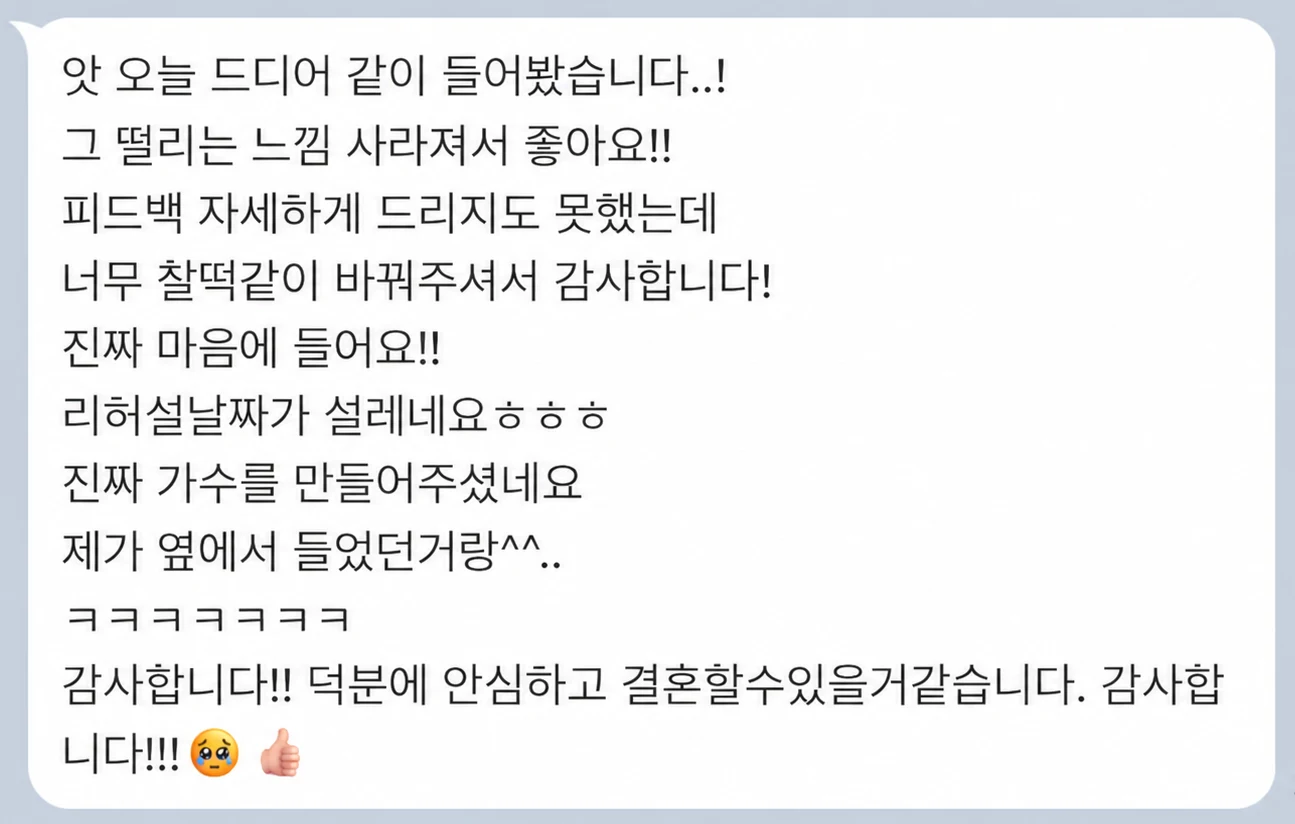
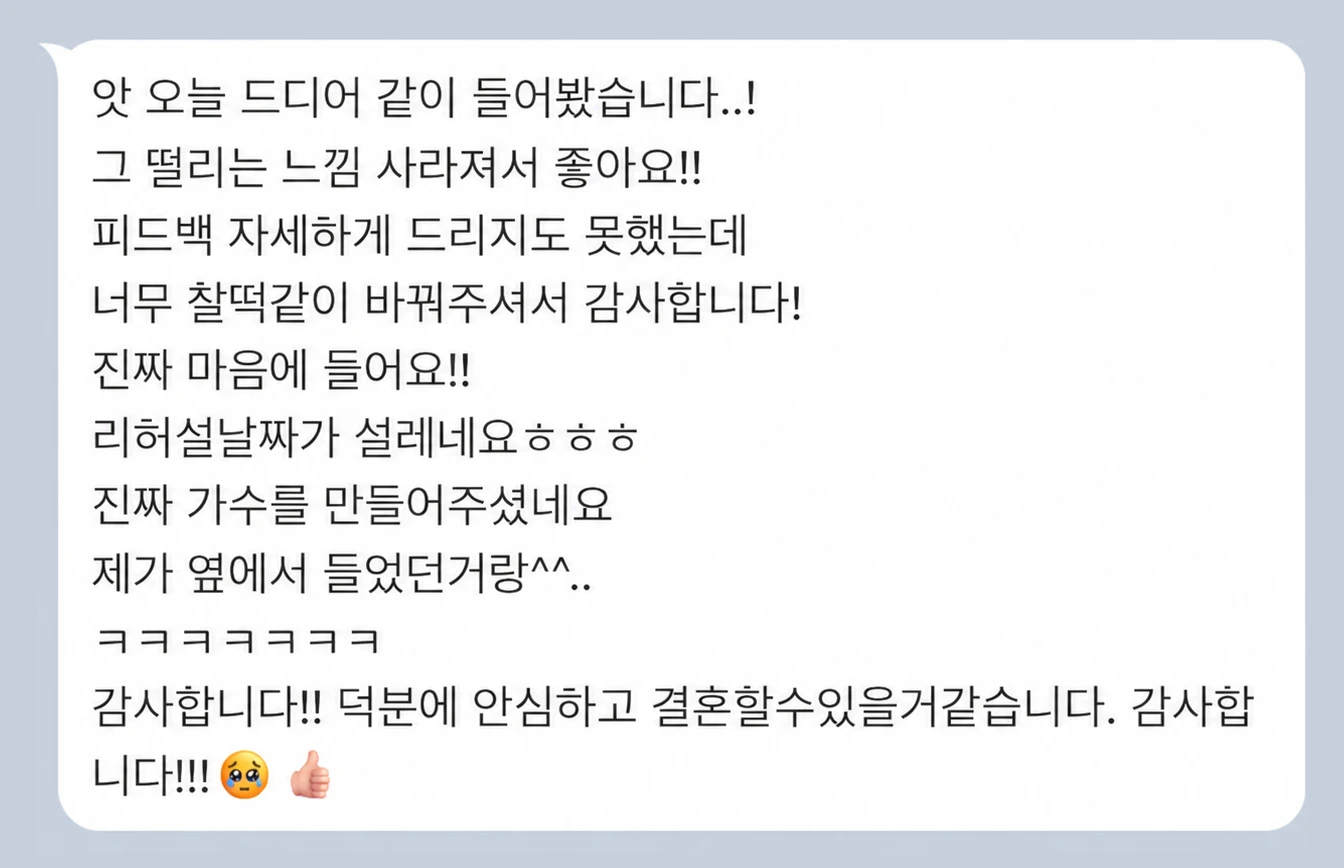
Round 25: booking occupancy (length + 30 extra + 30 prep, no pre-buffer), only 수입 항목 rows block, review-17 original re-crop, side review cards show full titles, 본식 현장 영상 rename, /events AR 축가 상담하기 opens the chooser

Changed region(s): [[0.0, 0.0, 0.9884, 1.0]]

diff --git a/js/app.js b/js/app.js
@@ -260,7 +260,7 @@ const PRODUCTS = {
 
 const EVENTS = [
   { key: "blog", type: "payback", label: "네이버 블로그 리뷰", discount: 30000, detail: "일 방문자 100명 이상인 네이버 블로그 · 위스티아에서 전달드리는 블로그 안내 가이드에 따라 후기 작성 및 공개 게시 · 카카오톡으로 게시물 링크 전달" },
-  { key: "reaction", type: "payback", label: "본식 현장 리액션 영상", discount: 30000, detail: "얼굴 공개·공식 인스타 게시 동의 · 본식 현장 영상 파일을 카카오톡으로 전달 · 조건 확인 후 30,000원 환급" },
+  { key: "reaction", type: "payback", label: "본식 현장 영상", discount: 30000, detail: "얼굴 공개·공식 인스타 게시 동의 · 본식 현장 영상 파일을 카카오톡으로 전달 · 조건 확인 후 30,000원 환급" },
 ]
 
 // Approved full event copy, shared with the existing events-page card layout
@@ -923,7 +923,7 @@ function renderEventsPage(){
  const legend=items.map(item=>'<span>'+escapeHtml(item.label.replace(/ (리뷰|후기|영상)$/,''))+' '+won(item.discount)+'</span>').join('')
  const cards=items.map((item,i)=>'<article class="ev2-card"><div class="ev2-no">'+String(i+1).padStart(2,'0')+'</div><div class="ev2-body"><div class="ev2-top"><h3 data-svg-title="off">'+escapeHtml(item.label)+'</h3><span class="ev2-amt">페이백 '+won(item.discount)+'</span></div>'+PAYBACK_EVENT_GUIDE[item.key].map(([title,lines])=>(title?'<p class="ev2-lbl">'+escapeHtml(title)+'</p>':'')+'<div class="ev2-cond">'+lines.map(line=>'<span>'+escapeHtml(line)+'</span>').join('')+'</div>').join('')+'</div></article>').join('')
  const discounts='<section class="events-discounts" aria-labelledby="discountsTitle"><p class="ev2-k">DISCOUNTS</p><h2 id="discountsTitle">할인 이벤트</h2>'+'<div class="events-discount-list">'+[['위스티아 첫 이용','10,000원 할인','처음 이용하신다면 문의 양식에서 첫 이용을 선택해 주세요','gift'],['목·금 오후 1~4시 시작','10,000원 할인','공휴일 제외 · 해당 요일과 시작 시간을 선택하면 자동 반영돼요','clock'],['녹음일 1개월 이후','10,000원 할인','예약하는 날에서 한 달 이후의 녹음 일정','calendar'],['녹음일 2개월 이후','20,000원 할인','사전 예약 할인은 두 항목 중 한 가지만 적용돼요','calendar']].map(([title,amount,note,icon],i)=>'<article class="evd-card"><span class="evd-icon" aria-hidden="true"><svg viewBox="0 0 24 24" fill="none" stroke="currentColor" stroke-width="1.6" stroke-linecap="round" stroke-linejoin="round" focusable="false">'+{gift:'<path d="M4 11h16v9H4zM3 7h18v4H3zM12 7v13M12 7c-1.5-3-5-3.5-5-1.2C7 7 9.5 7 12 7zm0 0c1.5-3 5-3.5 5-1.2C17 7 14.5 7 12 7z"/>',clock:'<circle cx="12" cy="12" r="8.5"/><path d="M12 7.5V12l3 2"/>',calendar:'<rect x="3.5" y="5" width="17" height="15" rx="2"/><path d="M3.5 9.5h17M8 3v4M16 3v4"/>'}[icon]+'</svg></span><p class="evd-no">'+['첫 번째','두 번째','세 번째','네 번째'][i]+'</p><h3 data-svg-title="off">'+title+'</h3><strong>'+amount+'</strong><p>'+note+'</p></article>').join('')+'</div></section>'
- app.innerHTML='<section class="wistia-events ev2" aria-labelledby="wistiaEventsTitle"><header class="ev2-hero"><p class="ev2-k">WISTIA EVENTS</p><h1 data-svg-title="off" id="wistiaEventsTitle">위스티아 이벤트</h1><p class="ev2-lead">할인 혜택과 후기 페이백을 안내해 드려요</p></header><div class="ev2-wrap">'+discounts+'<section class="events-payback" aria-labelledby="paybackTitle"><p class="ev2-k">PAYBACK</p><h2 id="paybackTitle">후기 참여 페이백 이벤트</h2><p class="ev2-lead">위스티아와 함께한 경험을 다른 분들께도 소개해 주실 수 있을까요?<br>고객님께서 나눠주시는 후기와 영상은 위스티아에 정말 큰 힘이 됩니다<br>감사의 마음을 담아 참여해 주시는 분들께 페이백을 준비했습니다</p><div class="ev2-big"><small>두 가지 모두 참여 시</small><h2 data-svg-title="off">총 <em>'+won(maximum)+'</em> 페이백!</h2><div class="ev2-bar">'+bar+'</div><div class="ev2-legend">'+legend+'</div><p>참여 조건 확인 후 카카오톡으로 환급 절차를 안내해 드립니다<br>결제 금액에서 미리 차감하지 않습니다</p></div><div class="ev2-list">'+cards+'</div><div class="ev2-note">'+PAYBACK_EVENT_GUIDE.notes.map(line=>'<p>'+escapeHtml(line)+'</p>').join('')+'</div></section><a class="ev2-cta" href="'+KAKAO_FALLBACK+'" target="_blank" rel="noopener noreferrer">카카오톡으로 상담하기</a></div></section>'+footer()
+ app.innerHTML='<section class="wistia-events ev2" aria-labelledby="wistiaEventsTitle"><header class="ev2-hero"><p class="ev2-k">WISTIA EVENTS</p><h1 data-svg-title="off" id="wistiaEventsTitle">위스티아 이벤트</h1><p class="ev2-lead">할인 혜택과 후기 페이백을 안내해 드려요</p></header><div class="ev2-wrap">'+discounts+'<section class="events-payback" aria-labelledby="paybackTitle"><p class="ev2-k">PAYBACK</p><h2 id="paybackTitle">후기 참여 페이백 이벤트</h2><p class="ev2-lead">위스티아와 함께한 경험을 다른 분들께도 소개해 주실 수 있을까요?<br>고객님께서 나눠주시는 후기와 영상은 위스티아에 정말 큰 힘이 됩니다<br>감사의 마음을 담아 참여해 주시는 분들께 페이백을 준비했습니다</p><div class="ev2-big"><small>두 가지 모두 참여 시</small><h2 data-svg-title="off">총 <em>'+won(maximum)+'</em> 페이백!</h2><div class="ev2-bar">'+bar+'</div><div class="ev2-legend">'+legend+'</div><p>참여 조건 확인 후 카카오톡으로 환급 절차를 안내해 드립니다<br>결제 금액에서 미리 차감하지 않습니다</p></div><div class="ev2-list">'+cards+'</div><div class="ev2-note">'+PAYBACK_EVENT_GUIDE.notes.map(line=>'<p>'+escapeHtml(line)+'</p>').join('')+'</div></section><a class="ev2-cta ev2-consult ed-hero-consult" href="/event/solo">AR 축가 상담하기<svg viewBox="0 0 24 24" fill="none" stroke="currentColor" stroke-width="1.5" aria-hidden="true"><path d="M5 19 19 5M5 5h14v14"/></svg></a></div></section>'+footer()
 }
 let contactQuote=null
 let inquiryUndecided=false,inquiryObserver=null

diff --git a/contact.html b/contact.html
@@ -182,7 +182,7 @@
   <link rel="preconnect" href="https://cdn.jsdelivr.net" crossorigin>
   <link rel="preload" as="style" crossorigin href="https://cdn.jsdelivr.net/gh/orioncactus/pretendard@v1.3.9/dist/web/variable/pretendardvariable-dynamic-subset.min.css" onload="this.onload=null;this.rel='stylesheet'"><noscript><link rel="stylesheet" crossorigin href="https://cdn.jsdelivr.net/gh/orioncactus/pretendard@v1.3.9/dist/web/variable/pretendardvariable-dynamic-subset.min.css"></noscript>
   <link rel="stylesheet" href="css/bundle-3472a5da.css?v=20261024-site-fixes-1">
-  <link rel="stylesheet" href="css/canvas-780.css?v=20261024-r24-1">
+  <link rel="stylesheet" href="css/canvas-780.css?v=20261024-r25-1">
   <script src="js/hero-editor.js?v=20261014-detail-polish-16j12" defer></script>
   <script src="js/process-editor.js?v=20261014-detail-polish-16j12" defer></script>
   <script src="js/ratio-model.js?v=20261014-detail-polish-16j12" defer></script>
@@ -193,18 +193,18 @@
   <script src="js/meta-pixel.js?v=20261017-funnel2" defer></script>
   <script src="js/analytics.js?v=20261017-funnel2" defer></script>
   <script src="js/seo-meta.js?v=20261024-r19-1" defer></script>
-  <script src="js/booking-availability.js?v=20261024-r17-1" defer></script>
+  <script src="js/booking-availability.js?v=20261024-r25-1" defer></script>
   <script src="js/contact-form.js?v=20261024-site-fixes-1" defer></script>
   <script src="js/site-motion.js?v=20261014-detail-polish-16j12" defer></script>
   <script src="js/svg-interface.js?v=20261014-detail-polish-16j12" defer></script>
   <script src="js/booking-draft.js?v=20261024-site-fixes-1" defer></script>
   <script src="js/inquiry-funnel.js?v=20261017-funnel2" defer></script>
-  <script src="js/package-pricing.js?v=20261024-r24-1" defer></script>
-  <script src="js/booking-wizard.js?v=20261024-r24-1" defer></script>
+  <script src="js/package-pricing.js?v=20261024-r25-1" defer></script>
+  <script src="js/booking-wizard.js?v=20261024-r25-1" defer></script>
   <script src="js/detail-pc-background.js?v=20261024-site-fixes-1" defer></script>
-  <script src="js/review-sources.js?v=20261024-r24-1" defer></script>
-  <script src="js/detail-editorial.js?v=20261024-r24-1" defer></script>
-  <script src="js/app.js?v=20261024-r24-1" defer></script>
+  <script src="js/review-sources.js?v=20261024-r24b" defer></script>
+  <script src="js/detail-editorial.js?v=20261024-r25-1" defer></script>
+  <script src="js/app.js?v=20261024-r25-1" defer></script>
   <meta property="og:image" content="https://wistiastudio.com/assets/img/og/wistia-og.png">
   <meta property="og:image:width" content="1200">
   <meta property="og:image:height" content="630">

diff --git a/detail/solo.html b/detail/solo.html
@@ -181,7 +181,7 @@
   <link rel="preconnect" href="https://cdn.jsdelivr.net" crossorigin>
   <link rel="preload" as="style" crossorigin href="https://cdn.jsdelivr.net/gh/orioncactus/pretendard@v1.3.9/dist/web/variable/pretendardvariable-dynamic-subset.min.css" onload="this.onload=null;this.rel='stylesheet'"><noscript><link rel="stylesheet" crossorigin href="https://cdn.jsdelivr.net/gh/orioncactus/pretendard@v1.3.9/dist/web/variable/pretendardvariable-dynamic-subset.min.css"></noscript>
   <link rel="stylesheet" href="css/bundle-3472a5da.css?v=20261024-site-fixes-1">
-  <link rel="stylesheet" href="css/canvas-780.css?v=20261024-r24-1">
+  <link rel="stylesheet" href="css/canvas-780.css?v=20261024-r25-1">
   <script src="js/hero-editor.js?v=20261014-detail-polish-16j12" defer></script>
   <script src="js/process-editor.js?v=20261014-detail-polish-16j12" defer></script>
   <script src="js/ratio-model.js?v=20261014-detail-polish-16j12" defer></script>
@@ -192,18 +192,18 @@
   <script src="js/meta-pixel.js?v=20261017-funnel2" defer></script>
   <script src="js/analytics.js?v=20261017-funnel2" defer></script>
   <script src="js/seo-meta.js?v=20261024-r19-1" defer></script>
-  <script src="js/booking-availability.js?v=20261024-r17-1" defer></script>
+  <script src="js/booking-availability.js?v=20261024-r25-1" defer></script>
   <script src="js/contact-form.js?v=20261024-site-fixes-1" defer></script>
   <script src="js/site-motion.js?v=20261014-detail-polish-16j12" defer></script>
   <script src="js/svg-interface.js?v=20261014-detail-polish-16j12" defer></script>
   <script src="js/booking-draft.js?v=20261024-site-fixes-1" defer></script>
   <script src="js/inquiry-funnel.js?v=20261017-funnel2" defer></script>
-  <script src="js/package-pricing.js?v=20261024-r24-1" defer></script>
-  <script src="js/booking-wizard.js?v=20261024-r24-1" defer></script>
+  <script src="js/package-pricing.js?v=20261024-r25-1" defer></script>
+  <script src="js/booking-wizard.js?v=20261024-r25-1" defer></script>
   <script src="js/detail-pc-background.js?v=20261024-site-fixes-1" defer></script>
-  <script src="js/review-sources.js?v=20261024-r24-1" defer></script>
-  <script src="js/detail-editorial.js?v=20261024-r24-1" defer></script>
-  <script src="js/app.js?v=20261024-r24-1" defer></script>
+  <script src="js/review-sources.js?v=20261024-r24b" defer></script>
+  <script src="js/detail-editorial.js?v=20261024-r25-1" defer></script>
+  <script src="js/app.js?v=20261024-r25-1" defer></script>
   <meta property="og:image" content="https://wistiastudio.com/assets/img/og/wistia-og.png">
   <meta property="og:image:width" content="1200">
   <meta property="og:image:height" content="630">

diff --git a/event/duo.html b/event/duo.html
@@ -181,7 +181,7 @@
   <link rel="preconnect" href="https://cdn.jsdelivr.net" crossorigin>
   <link rel="preload" as="style" crossorigin href="https://cdn.jsdelivr.net/gh/orioncactus/pretendard@v1.3.9/dist/web/variable/pretendardvariable-dynamic-subset.min.css" onload="this.onload=null;this.rel='stylesheet'"><noscript><link rel="stylesheet" crossorigin href="https://cdn.jsdelivr.net/gh/orioncactus/pretendard@v1.3.9/dist/web/variable/pretendardvariable-dynamic-subset.min.css"></noscript>
   <link rel="stylesheet" href="css/bundle-3472a5da.css?v=20261024-site-fixes-1">
-  <link rel="stylesheet" href="css/canvas-780.css?v=20261024-r24-1">
+  <link rel="stylesheet" href="css/canvas-780.css?v=20261024-r25-1">
   <script src="js/hero-editor.js?v=20261014-detail-polish-16j12" defer></script>
   <script src="js/process-editor.js?v=20261014-detail-polish-16j12" defer></script>
   <script src="js/ratio-model.js?v=20261014-detail-polish-16j12" defer></script>
@@ -192,18 +192,18 @@
   <script src="js/meta-pixel.js?v=20261017-funnel2" defer></script>
   <script src="js/analytics.js?v=20261017-funnel2" defer></script>
   <script src="js/seo-meta.js?v=20261024-r19-1" defer></script>
-  <script src="js/booking-availability.js?v=20261024-r17-1" defer></script>
+  <script src="js/booking-availability.js?v=20261024-r25-1" defer></script>
   <script src="js/contact-form.js?v=20261024-site-fixes-1" defer></script>
   <script src="js/site-motion.js?v=20261014-detail-polish-16j12" defer></script>
   <script src="js/svg-interface.js?v=20261014-detail-polish-16j12" defer></script>
   <script src="js/booking-draft.js?v=20261024-site-fixes-1" defer></script>
   <script src="js/inquiry-funnel.js?v=20261017-funnel2" defer></script>
-  <script src="js/package-pricing.js?v=20261024-r24-1" defer></script>
-  <script src="js/booking-wizard.js?v=20261024-r24-1" defer></script>
+  <script src="js/package-pricing.js?v=20261024-r25-1" defer></script>
+  <script src="js/booking-wizard.js?v=20261024-r25-1" defer></script>
   <script src="js/detail-pc-background.js?v=20261024-site-fixes-1" defer></script>
-  <script src="js/review-sources.js?v=20261024-r24-1" defer></script>
-  <script src="js/detail-editorial.js?v=20261024-r24-1" defer></script>
-  <script src="js/app.js?v=20261024-r24-1" defer></script>
+  <script src="js/review-sources.js?v=20261024-r24b" defer></script>
+  <script src="js/detail-editorial.js?v=20261024-r25-1" defer></script>
+  <script src="js/app.js?v=20261024-r25-1" defer></script>
   <meta property="og:image" content="https://wistiastudio.com/assets/img/og/wistia-og.png">
   <meta property="og:image:width" content="1200">
   <meta property="og:image:height" content="630">

diff --git a/event/solo.html b/event/solo.html
@@ -181,7 +181,7 @@
   <link rel="preconnect" href="https://cdn.jsdelivr.net" crossorigin>
   <link rel="preload" as="style" crossorigin href="https://cdn.jsdelivr.net/gh/orioncactus/pretendard@v1.3.9/dist/web/variable/pretendardvariable-dynamic-subset.min.css" onload="this.onload=null;this.rel='stylesheet'"><noscript><link rel="stylesheet" crossorigin href="https://cdn.jsdelivr.net/gh/orioncactus/pretendard@v1.3.9/dist/web/variable/pretendardvariable-dynamic-subset.min.css"></noscript>
   <link rel="stylesheet" href="css/bundle-3472a5da.css?v=20261024-site-fixes-1">
-  <link rel="stylesheet" href="css/canvas-780.css?v=20261024-r24-1">
+  <link rel="stylesheet" href="css/canvas-780.css?v=20261024-r25-1">
   <script src="js/hero-editor.js?v=20261014-detail-polish-16j12" defer></script>
   <script src="js/process-editor.js?v=20261014-detail-polish-16j12" defer></script>
   <script src="js/ratio-model.js?v=20261014-detail-polish-16j12" defer></script>
@@ -192,18 +192,18 @@
   <script src="js/meta-pixel.js?v=20261017-funnel2" defer></script>
   <script src="js/analytics.js?v=20261017-funnel2" defer></script>
   <script src="js/seo-meta.js?v=20261024-r19-1" defer></script>
-  <script src="js/booking-availability.js?v=20261024-r17-1" defer></script>
+  <script src="js/booking-availability.js?v=20261024-r25-1" defer></script>
   <script src="js/contact-form.js?v=20261024-site-fixes-1" defer></script>
   <script src="js/site-motion.js?v=20261014-detail-polish-16j12" defer></script>
   <script src="js/svg-interface.js?v=20261014-detail-polish-16j12" defer></script>
   <script src="js/booking-draft.js?v=20261024-site-fixes-1" defer></script>
   <script src="js/inquiry-funnel.js?v=20261017-funnel2" defer></script>
-  <script src="js/package-pricing.js?v=20261024-r24-1" defer></script>
-  <script src="js/booking-wizard.js?v=20261024-r24-1" defer></script>
+  <script src="js/package-pricing.js?v=20261024-r25-1" defer></script>
+  <script src="js/booking-wizard.js?v=20261024-r25-1" defer></script>
   <script src="js/detail-pc-background.js?v=20261024-site-fixes-1" defer></script>
-  <script src="js/review-sources.js?v=20261024-r24-1" defer></script>
-  <script src="js/detail-editorial.js?v=20261024-r24-1" defer></script>
-  <script src="js/app.js?v=20261024-r24-1" defer></script>
+  <script src="js/review-sources.js?v=20261024-r24b" defer></script>
+  <script src="js/detail-editorial.js?v=20261024-r25-1" defer></script>
+  <script src="js/app.js?v=20261024-r25-1" defer></script>
   <meta property="og:image" content="https://wistiastudio.com/assets/img/og/wistia-og.png">
   <meta property="og:image:width" content="1200">
   <meta property="og:image:height" content="630">

diff --git a/events.html b/events.html
@@ -181,7 +181,7 @@
   <link rel="preconnect" href="https://cdn.jsdelivr.net" crossorigin>
   <link rel="preload" as="style" crossorigin href="https://cdn.jsdelivr.net/gh/orioncactus/pretendard@v1.3.9/dist/web/variable/pretendardvariable-dynamic-subset.min.css" onload="this.onload=null;this.rel='stylesheet'"><noscript><link rel="stylesheet" crossorigin href="https://cdn.jsdelivr.net/gh/orioncactus/pretendard@v1.3.9/dist/web/variable/pretendardvariable-dynamic-subset.min.css"></noscript>
   <link rel="stylesheet" href="css/bundle-3472a5da.css?v=20261024-site-fixes-1">
-  <link rel="stylesheet" href="css/canvas-780.css?v=20261024-r24-1">
+  <link rel="stylesheet" href="css/canvas-780.css?v=20261024-r25-1">
   <script src="js/hero-editor.js?v=20261014-detail-polish-16j12" defer></script>
   <script src="js/process-editor.js?v=20261014-detail-polish-16j12" defer></script>
   <script src="js/ratio-model.js?v=20261014-detail-polish-16j12" defer></script>
@@ -192,18 +192,18 @@
   <script src="js/meta-pixel.js?v=20261017-funnel2" defer></script>
   <script src="js/analytics.js?v=20261017-funnel2" defer></script>
   <script src="js/seo-meta.js?v=20261024-r19-1" defer></script>
-  <script src="js/booking-availability.js?v=20261024-r17-1" defer></script>
+  <script src="js/booking-availability.js?v=20261024-r25-1" defer></script>
   <script src="js/contact-form.js?v=20261024-site-fixes-1" defer></script>
   <script src="js/site-motion.js?v=20261014-detail-polish-16j12" defer></script>
   <script src="js/svg-interface.js?v=20261014-detail-polish-16j12" defer></script>
   <script src="js/booking-draft.js?v=20261024-site-fixes-1" defer></script>
   <script src="js/inquiry-funnel.js?v=20261017-funnel2" defer></script>
-  <script src="js/package-pricing.js?v=20261024-r24-1" defer></script>
-  <script src="js/booking-wizard.js?v=20261024-r24-1" defer></script>
+  <script src="js/package-pricing.js?v=20261024-r25-1" defer></script>
+  <script src="js/booking-wizard.js?v=20261024-r25-1" defer></script>
   <script src="js/detail-pc-background.js?v=20261024-site-fixes-1" defer></script>
-  <script src="js/review-sources.js?v=20261024-r24-1" defer></script>
-  <script src="js/detail-editorial.js?v=20261024-r24-1" defer></script>
-  <script src="js/app.js?v=20261024-r24-1" defer></script>
+  <script src="js/review-sources.js?v=20261024-r24b" defer></script>
+  <script src="js/detail-editorial.js?v=20261024-r25-1" defer></script>
+  <script src="js/app.js?v=20261024-r25-1" defer></script>
   <meta property="og:image" content="https://wistiastudio.com/assets/img/og/wistia-og.png">
   <meta property="og:image:width" content="1200">
   <meta property="og:image:height" content="630">

diff --git a/index.html b/index.html
@@ -181,7 +181,7 @@
   <link rel="preconnect" href="https://cdn.jsdelivr.net" crossorigin>
   <link rel="preload" as="style" crossorigin href="https://cdn.jsdelivr.net/gh/orioncactus/pretendard@v1.3.9/dist/web/variable/pretendardvariable-dynamic-subset.min.css" onload="this.onload=null;this.rel='stylesheet'"><noscript><link rel="stylesheet" crossorigin href="https://cdn.jsdelivr.net/gh/orioncactus/pretendard@v1.3.9/dist/web/variable/pretendardvariable-dynamic-subset.min.css"></noscript>
   <link rel="stylesheet" href="css/bundle-3472a5da.css?v=20261024-site-fixes-1">
-  <link rel="stylesheet" href="css/canvas-780.css?v=20261024-r24-1">
+  <link rel="stylesheet" href="css/canvas-780.css?v=20261024-r25-1">
   <script src="js/hero-editor.js?v=20261014-detail-polish-16j12" defer></script>
   <script src="js/process-editor.js?v=20261014-detail-polish-16j12" defer></script>
   <script src="js/ratio-model.js?v=20261014-detail-polish-16j12" defer></script>
@@ -192,18 +192,18 @@
   <script src="js/meta-pixel.js?v=20261017-funnel2" defer></script>
   <script src="js/analytics.js?v=20261017-funnel2" defer></script>
   <script src="js/seo-meta.js?v=20261024-r19-1" defer></script>
-  <script src="js/booking-availability.js?v=20261024-r17-1" defer></script>
+  <script src="js/booking-availability.js?v=20261024-r25-1" defer></script>
   <script src="js/contact-form.js?v=20261024-site-fixes-1" defer></script>
   <script src="js/site-motion.js?v=20261014-detail-polish-16j12" defer></script>
   <script src="js/svg-interface.js?v=20261014-detail-polish-16j12" defer></script>
   <script src="js/booking-draft.js?v=20261024-site-fixes-1" defer></script>
   <script src="js/inquiry-funnel.js?v=20261017-funnel2" defer></script>
-  <script src="js/package-pricing.js?v=20261024-r24-1" defer></script>
-  <script src="js/booking-wizard.js?v=20261024-r24-1" defer></script>
+  <script src="js/package-pricing.js?v=20261024-r25-1" defer></script>
+  <script src="js/booking-wizard.js?v=20261024-r25-1" defer></script>
   <script src="js/detail-pc-background.js?v=20261024-site-fixes-1" defer></script>
-  <script src="js/review-sources.js?v=20261024-r24-1" defer></script>
-  <script src="js/detail-editorial.js?v=20261024-r24-1" defer></script>
-  <script src="js/app.js?v=20261024-r24-1" defer></script>
+  <script src="js/review-sources.js?v=20261024-r24b" defer></script>
+  <script src="js/detail-editorial.js?v=20261024-r25-1" defer></script>
+  <script src="js/app.js?v=20261024-r25-1" defer></script>
   <meta property="og:image" content="https://wistiastudio.com/assets/img/og/wistia-og.png">
   <meta property="og:image:width" content="1200">
   <meta property="og:image:height" content="630">

diff --git a/info/faq.html b/info/faq.html
@@ -181,7 +181,7 @@
   <link rel="preconnect" href="https://cdn.jsdelivr.net" crossorigin>
   <link rel="preload" as="style" crossorigin href="https://cdn.jsdelivr.net/gh/orioncactus/pretendard@v1.3.9/dist/web/variable/pretendardvariable-dynamic-subset.min.css" onload="this.onload=null;this.rel='stylesheet'"><noscript><link rel="stylesheet" crossorigin href="https://cdn.jsdelivr.net/gh/orioncactus/pretendard@v1.3.9/dist/web/variable/pretendardvariable-dynamic-subset.min.css"></noscript>
   <link rel="stylesheet" href="css/bundle-3472a5da.css?v=20261024-site-fixes-1">
-  <link rel="stylesheet" href="css/canvas-780.css?v=20261024-r24-1">
+  <link rel="stylesheet" href="css/canvas-780.css?v=20261024-r25-1">
   <script src="js/hero-editor.js?v=20261014-detail-polish-16j12" defer></script>
   <script src="js/process-editor.js?v=20261014-detail-polish-16j12" defer></script>
   <script src="js/ratio-model.js?v=20261014-detail-polish-16j12" defer></script>
@@ -192,18 +192,18 @@
   <script src="js/meta-pixel.js?v=20261017-funnel2" defer></script>
   <script src="js/analytics.js?v=20261017-funnel2" defer></script>
   <script src="js/seo-meta.js?v=20261024-r19-1" defer></script>
-  <script src="js/booking-availability.js?v=20261024-r17-1" defer></script>
+  <script src="js/booking-availability.js?v=20261024-r25-1" defer></script>
   <script src="js/contact-form.js?v=20261024-site-fixes-1" defer></script>
   <script src="js/site-motion.js?v=20261014-detail-polish-16j12" defer></script>
   <script src="js/svg-interface.js?v=20261014-detail-polish-16j12" defer></script>
   <script src="js/booking-draft.js?v=20261024-site-fixes-1" defer></script>
   <script src="js/inquiry-funnel.js?v=20261017-funnel2" defer></script>
-  <script src="js/package-pricing.js?v=20261024-r24-1" defer></script>
-  <script src="js/booking-wizard.js?v=20261024-r24-1" defer></script>
+  <script src="js/package-pricing.js?v=20261024-r25-1" defer></script>
+  <script src="js/booking-wizard.js?v=20261024-r25-1" defer></script>
   <script src="js/detail-pc-background.js?v=20261024-site-fixes-1" defer></script>
-  <script src="js/review-sources.js?v=20261024-r24-1" defer></script>
-  <script src="js/detail-editorial.js?v=20261024-r24-1" defer></script>
-  <script src="js/app.js?v=20261024-r24-1" defer></script>
+  <script src="js/review-sources.js?v=20261024-r24b" defer></script>
+  <script src="js/detail-editorial.js?v=20261024-r25-1" defer></script>
+  <script src="js/app.js?v=20261024-r25-1" defer></script>
   <meta property="og:image" content="https://wistiastudio.com/assets/img/og/wistia-og.png">
   <meta property="og:image:width" content="1200">
   <meta property="og:image:height" content="630">

diff --git a/info/location.html b/info/location.html
@@ -181,7 +181,7 @@
   <link rel="preconnect" href="https://cdn.jsdelivr.net" crossorigin>
   <link rel="preload" as="style" crossorigin href="https://cdn.jsdelivr.net/gh/orioncactus/pretendard@v1.3.9/dist/web/variable/pretendardvariable-dynamic-subset.min.css" onload="this.onload=null;this.rel='stylesheet'"><noscript><link rel="stylesheet" crossorigin href="https://cdn.jsdelivr.net/gh/orioncactus/pretendard@v1.3.9/dist/web/variable/pretendardvariable-dynamic-subset.min.css"></noscript>
   <link rel="stylesheet" href="css/bundle-3472a5da.css?v=20261024-site-fixes-1">
-  <link rel="stylesheet" href="css/canvas-780.css?v=20261024-r24-1">
+  <link rel="stylesheet" href="css/canvas-780.css?v=20261024-r25-1">
   <script src="js/hero-editor.js?v=20261014-detail-polish-16j12" defer></script>
   <script src="js/process-editor.js?v=20261014-detail-polish-16j12" defer></script>
   <script src="js/ratio-model.js?v=20261014-detail-polish-16j12" defer></script>
@@ -192,18 +192,18 @@
   <script src="js/meta-pixel.js?v=20261017-funnel2" defer></script>
   <script src="js/analytics.js?v=20261017-funnel2" defer></script>
   <script src="js/seo-meta.js?v=20261024-r19-1" defer></script>
-  <script src="js/booking-availability.js?v=20261024-r17-1" defer></script>
+  <script src="js/booking-availability.js?v=20261024-r25-1" defer></script>
   <script src="js/contact-form.js?v=20261024-site-fixes-1" defer></script>
   <script src="js/site-motion.js?v=20261014-detail-polish-16j12" defer></script>
   <script src="js/svg-interface.js?v=20261014-detail-polish-16j12" defer></script>
   <script src="js/booking-draft.js?v=20261024-site-fixes-1" defer></script>
   <script src="js/inquiry-funnel.js?v=20261017-funnel2" defer></script>
-  <script src="js/package-pricing.js?v=20261024-r24-1" defer></script>
-  <script src="js/booking-wizard.js?v=20261024-r24-1" defer></script>
+  <script src="js/package-pricing.js?v=20261024-r25-1" defer></script>
+  <script src="js/booking-wizard.js?v=20261024-r25-1" defer></script>
   <script src="js/detail-pc-background.js?v=20261024-site-fixes-1" defer></script>
-  <script src="js/review-sources.js?v=20261024-r24-1" defer></script>
-  <script src="js/detail-editorial.js?v=20261024-r24-1" defer></script>
-  <script src="js/app.js?v=20261024-r24-1" defer></script>
+  <script src="js/review-sources.js?v=20261024-r24b" defer></script>
+  <script src="js/detail-editorial.js?v=20261024-r25-1" defer></script>
+  <script src="js/app.js?v=20261024-r25-1" defer></script>
   <meta property="og:image" content="https://wistiastudio.com/assets/img/og/wistia-og.png">
   <meta property="og:image:width" content="1200">
   <meta property="og:image:height" content="630">

diff --git a/js/booking-availability.js b/js/booking-availability.js
@@ -10,7 +10,8 @@
  function isOperatingDay(date){return validDate(date)&&operatingDays.includes(new Date(date+'T12:00:00Z').getUTCDay())}
  function duration(key){const selected=/^ar-(\d+)$/.exec(String(key));if(selected&&Number(selected[1])>=60&&Number(selected[1])<=600)return Number(selected[1]);return key==='duo'?120:['duet-film','wedding','proposal','solo-film'].includes(key)?180:60}
  function timeWindows(key){const minutes=duration(key);return Array.from({length:10},(_,i)=>{const hour=13+i;return {value:hour+':00',label:'오후 '+(hour-12)+'시',minutes}})}
- // Server blocks already include each existing reservation's 30-minute buffers.
+ // Server blocks are each booking's occupied window: start to stored end (which already
+ // holds its 30-minute extra time) plus 30 minutes of preparation for the next customer.
  function cellBooked(date,time,blocks){const start=Date.parse(date+'T'+time+':00+09:00');return blocks.some(block=>start<Date.parse(block.end)&&start+30*60000>Date.parse(block.start))}
  // Every operating day closes at 23:00; other closures come from the availability blocks.
  function sundayEvening(){return false} // no fixed Sunday closure: closures come only from the Notion-linked availability blocks
@@ -18,9 +19,10 @@
   if(!validDate(date)||!/^\d{2}:\d{2}$/.test(time)||!Number.isFinite(minutes)||minutes<=0)return true
   const clock=Number(time.slice(0,2))*60+Number(time.slice(3));if(clock<13*60||clock+minutes>23*60)return true
   if(sundayEvening(date,time))return true
-  const start=Date.parse(date+'T'+time+':00+09:00')-30*60000,end=start+(minutes+60)*60000
+  // A new booking occupies its recording length + 30 min extra time + 30 min preparation.
+  const start=Date.parse(date+'T'+time+':00+09:00'),end=start+(minutes+60)*60000
   if(!Number.isFinite(start))return true
-  const endDay=new Date(end-30*60000-1+9*3600000).toISOString().slice(0,10)
+  const endDay=new Date(start+minutes*60000-1+9*3600000).toISOString().slice(0,10)
   if(!isOperatingDay(date)||!isOperatingDay(endDay))return true
   return blocks.some(block=>start<Date.parse(block.end)&&end>Date.parse(block.start))
  }

diff --git a/css/canvas-780.css b/css/canvas-780.css
@@ -438,3 +438,14 @@ html body:not(#z#z#z#z#z#z#z#z#z#z#z#z#z#z#z#z#z#z#z#z#z#z#z#z#z#z#z#z#z#z#z#z#z
     html body #app#app#app#app .solo-detail-scope .solo-review-dialog img { display: block !important; width: auto !important; height: auto !important; max-width: 100% !important; max-height: calc((100vh - 64px) / 1.78 - 72px) !important; margin: 0 auto !important; object-fit: contain !important; }
   }
 }
+@layer wistia-site-fixes {
+  /* r25: /events consult button matches the site's AR 축가 상담하기 button and opens the chooser */
+  html body #app#app#app#app .ev2 .ev2-cta.ev2-consult { display: flex !important; align-items: center !important; justify-content: space-between !important; gap: 12px !important; width: 100% !important; box-sizing: border-box !important; margin: 18px 0 0 !important; padding: 16px 22px !important; border: 0 !important; border-radius: 0 !important; background: rgb(169, 99, 122) !important; color: #fff !important; font-size: 16px !important; font-weight: 500 !important; line-height: 1.3 !important; text-decoration: none !important; box-shadow: none !important; }
+  html body #app#app#app#app .ev2 .ev2-cta.ev2-consult::before, html body #app#app#app#app .ev2 .ev2-cta.ev2-consult::after { content: none !important; display: none !important; }
+  html body #app#app#app#app .ev2 .ev2-cta.ev2-consult svg { flex: 0 0 auto !important; width: 18px !important; height: 18px !important; }
+}
+@layer wistia-site-fixes {
+  /* r25: side review cards show only the full title, so no name or title is cut */
+  html body #app#app#app#app .ed-review-slide:not(.is-current) .ed-review-card > h3 { display: block !important; -webkit-line-clamp: unset !important; line-clamp: unset !important; overflow: visible !important; max-height: none !important; height: auto !important; text-overflow: clip !important; word-break: keep-all !important; overflow-wrap: anywhere !important; }
+  html body #app#app#app#app .ed-review-slide:not(.is-current) .ed-review-card > p, html body #app#app#app#app .ed-review-slide:not(.is-current) .ed-review-card > footer { visibility: hidden !important; }
+}

diff --git a/js/review-sources.js b/js/review-sources.js
@@ -7,6 +7,7 @@
   const captures = [
     {
       id: 'review-17', title: '떨리는 느낌 사라져서 좋아요',
+      src: 'assets/img/reviews/review-17.webp?v=20261024-r24b',
       body: '앗 오늘 드디어 같이 들어봤습니다..!\n그 떨리는 느낌 사라져서 좋아요!!\n피드백 자세하게 드리지도 못했는데\n너무 찰떡같이 바꿔주셔서 감사합니다!\n진짜 마음에 들어요!!\n리허설날짜가 설레네요ㅎㅎㅎ\n진짜 가수를 만들어주셨네요\n제가 옆에서 들었던거랑^^..\nㅋㅋㅋㅋㅋㅋㅋ\n감사합니다!! 덕분에 안심하고 결혼할수있을거같습니다. 감사합니다!!! 🥹👍'
     },
     {
